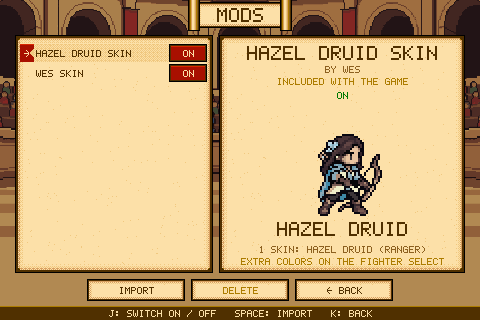
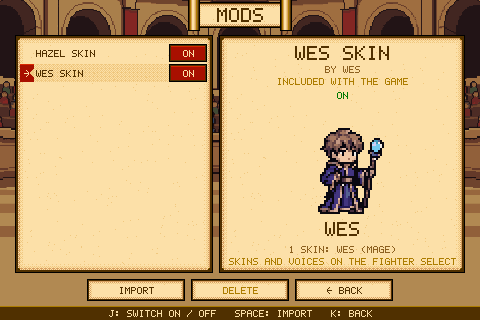
README: show the Wes skin in the Mods section (#141)
Re-record docs/media/mods.png with the Wes skin selected instead of Hazel.

Claude-Session: https://claude.ai/code/session_014aBWtEFnuCz3qk41nkr5St

diff --git a/tools/readme/clips.ts b/tools/readme/clips.ts
@@ -93,7 +93,7 @@ export const clips: Record<string, Clip> = {
   },
   'expedition-map': { setup: () => setScene(new ExpeditionMapScene(expRun(3, 0))), secs: 0, still: true },
   'expedition': { setup: () => expFight(['ghoul', 'banshee', 'skelarcher'], 1), secs: 7 },
-  'mods': { setup: () => { const m = new ModsScene(); m.cur = Math.max(0, MODS.findIndex(e => e.id === 'hazel-druid-skin')); setScene(m); run(0.2); }, secs: 0, still: true },
+  'mods': { setup: () => { const m = new ModsScene(); m.cur = Math.max(0, MODS.findIndex(e => e.id === 'wes-skin')); setScene(m); run(0.2); }, secs: 0, still: true },
 };
 
 declare global { interface Window { __clips: unknown } }

diff --git a/README.md b/README.md
@@ -63,7 +63,7 @@ A run for one: pick a class, start with a small deck, and fight your way through
 
 Skins are mods: drop a mod zip into the **MODS** screen to add new looks for your fighters, and switch each one on or off. The game ships with two to start.
 
-<p align="center"><img src="docs/media/mods.png" alt="The MODS screen with the Hazel skin for the Ranger" width="480"></p>
+<p align="center"><img src="docs/media/mods.png" alt="The MODS screen with the Wes skin for the Mage" width="480"></p>
 
 ## How to play
 
